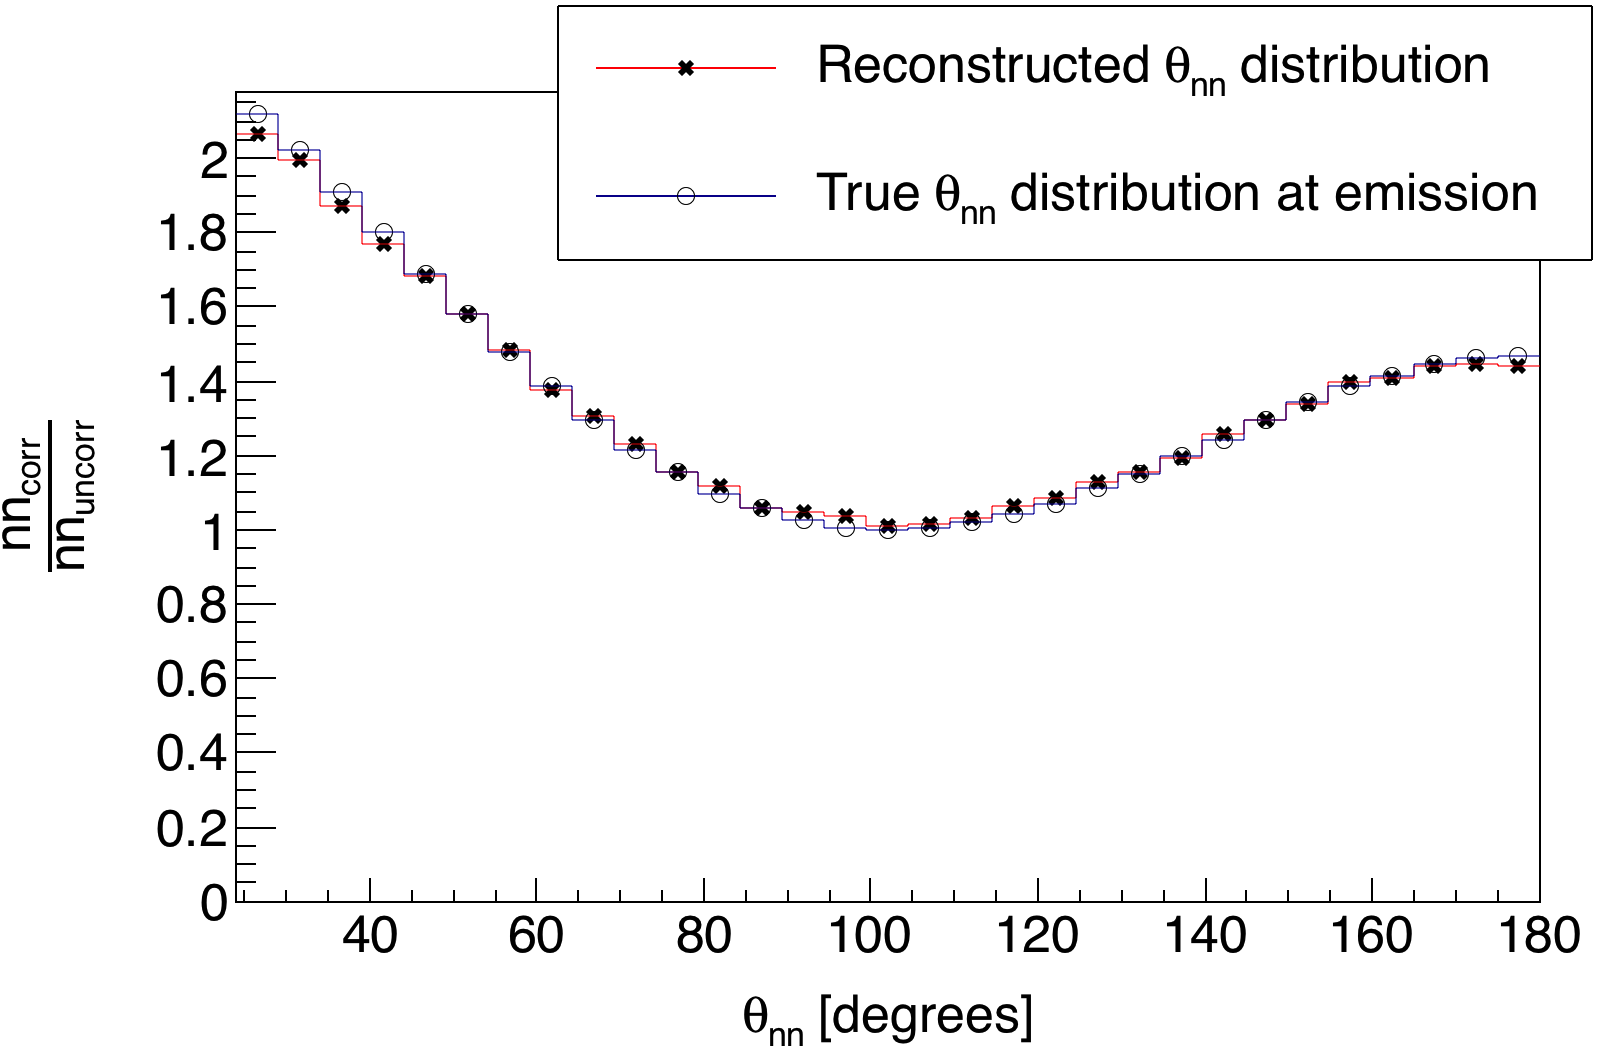
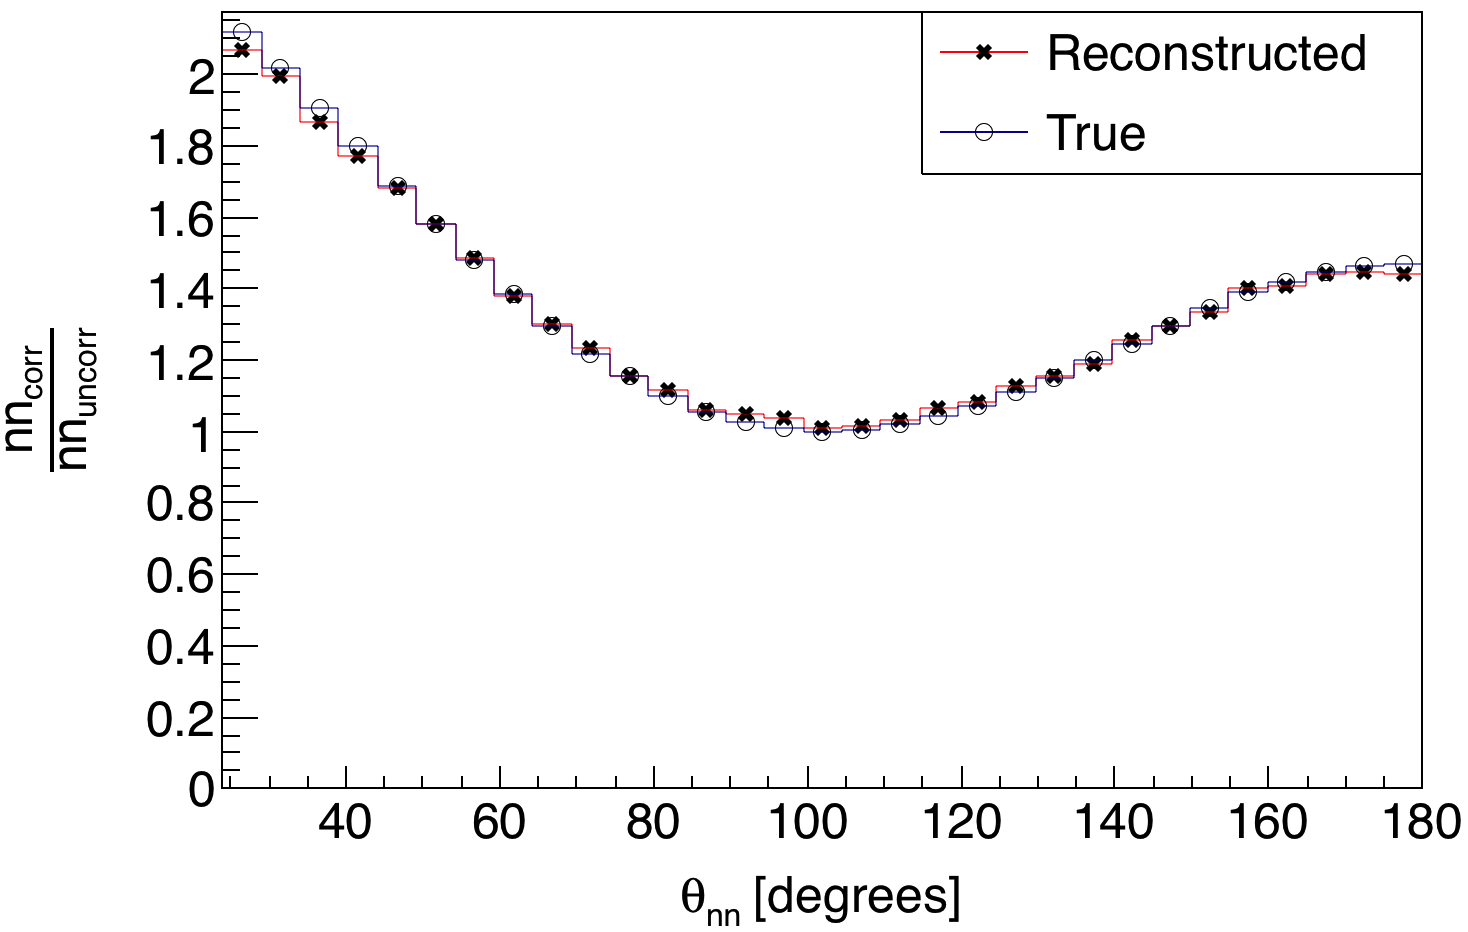
ok

diff --git a/Content/Errors/Errors.tex b/Content/Errors/Errors.tex
@@ -109,22 +109,22 @@ Angles greater than 125 degrees are not shown in Fig.~\ref{fig:CrosstalkVScoinci
 \section{Neutron Scattering within Target}
 \label{subsection:Elastic_scattering}
 A potential source of error in opening angle measurements is the scattering of neutrons within the fission target.
-This is a cause for concern, because when a neutron scatters from a heavy nucleons, such as $^{238}$U, is very likely to be deflected at a large angle, causing two-neutron opening angles that are not reflective of the opening angle immediately after fission.
-Furthermore, because the target used in this work has the shape of a thin strip, it is more likely that neutrons emitted along the wider axis (2~cm) of the strip undergo a scattering event than it is for those emitted along the thinest axis (0.05~cm).
+This is a cause for concern because when a neutron scatters from a heavy nucleons, such as $^{238}$U, it is very likely to be deflected at large angles, resulting in two-neutron opening angles that do not reflect fission kinematics.
+Furthermore, because the target used in this work has the shape of a thin strip, it is more likely that neutrons emitted along the wide axis (2~cm) of the strip undergo a scattering event than those emitted along the thinest axis (0.05~cm).
 As a result, detectors that are located collinear to the widest axis of the target will see relatively fewer neutrons due to increased scattering. 
 This bias is removed by slowly rotating the target about the vertical axis during data acquisition.
 Because the subject of this measurement is fundamentally a statistical process, useful interpretations of the data are average rates taken over many events.
-Thus, by rotating the target, cylindrical symmetry is preserved in the average, producing a result equivalent to that if a cylindrical target were used.
+Thus, by rotating the target, cylindrical symmetry is preserved in the average to produce a result equivalent to that if a cylindrical target were used.
 
 The target's dimensions are small enough that the rate of photon absorption, and thus photo-neutron production, is virtually uniform throughout the entire target volume.
-MCNP-PoLiMi was used to simulate fission neutrons from the SF of $^{252}$Cf at locations distributed uniformly throughout the target volume.
-The probability that at least one neutron out of a pair of two scatters before exiting the target was calculated from the simulation.
-For the target used in this work, the result indicated that 6\% of two-neutron opening angles were perturbed due to scattering.
+MCNP-PoLiMi was used to simulate fission neutrons from the SF of $^{252}$Cf at locations distributed uniformly throughout the target's volume.
+The SF of $^{252}$Cf is used instead of the photofission of $^{238}$U because of the current lack of photofission models, however, the underlying fission kinematics are broadly speaking the same, and thus the neutron-neutron correlations of the SF of $^{252}$Cf and the photofission of $^{238}$U are similar.
+The probability that at least one neutron out of a pair of two scatters before exiting the target was calculated from the simulation, indicating that 6\% of measured two-neutron opening angles were perturbed due to scattering.
 
-The rate of elastic scattering is also affected by the shape of the target.
+The rate of elastic scattering is affected by the size and shape of the target.
 A thin strip is the ideal target shape regarding the rate of neutron elastic scattering per unit of total target volume.
 See Fig~\ref{fig:ElasticScatteringPlot} for the simulated elastic scattering rates for both thin strip and cylindrical shaped targets.
-The simulation indicated that the rate of elastic scattering is about a factor of two times greater in cylindrical targets than in thin strip targets of the same volume and width-to-height ratio as the target used in this experiment.
+The simulation indicated that the rate of elastic scattering is about a factor of two times greater in cylindrical targets than in thin strip targets of the same volume with a width-to-thickness ratio of 40.
 
 \begin{figure}
     \centering
@@ -138,21 +138,26 @@ The simulation indicated that the rate of elastic scattering is about a factor o
     \label{fig:ElasticScatteringPlot}
 \end{figure}
 
-Section~\ref{sec:anomaly} discusses the observation of an unexpected drop in correlation around 180$^{\circ}$ in our photofission of $^{238}$U measurement, as seen in Figs.~\ref{fig:DU(0)} through~\ref{fig:DU(1)}.
-This motivated a simulation which examined whether this decrease in the correlation around 180$^{\circ}$ opening angles reflects the underlying physics of the fission process, or, arises from an artifact of the data analysis procedure.
+Section~\ref{sec:anomaly} discusses the observation of an unexpected drop in correlation around 180$^{\circ}$ in our photofission of $^{238}$U measurement, as seen in Figs.~\ref{fig:DU(0)}-\ref{fig:DU(1)}.
+This motivated a second simulation regarding elastic scattering which examined whether this decrease in the correlation around 180$^{\circ}$ opening angles reflects the underlying physics of the fission process.
 In particular, note that throughout these measurements, the target was continuously rotated once per 8 seconds.
 This means that for the determination of the uncorrelated opening angle distribution, the trajectories of the two neutrons were taken from two different pulses in which the target was at a different orientation for each of them.
 Additionally, each of the neutrons likely originated from different regions of the target volume.
 On the other hand, for the same-pulse, correlated neutron measurement, the target was in the same orientation and the two neutrons were generated at the same position in the target.
+For these reasons, the rates of neutron scattering within the target are not necessarily equal for the same-pulse and different-pulse cases.
 As such, we investigated whether these differences could cause this apparent decrease in the opening angle distribution.
 
 Using the correlated $^{252}$Cf SF source built-in to MCNP-PoLiMi, the opening angle distribution of neutrons at the moment of emission can be compared to that of emitted neutrons after they have escaped the target.
 Analysis of the simulation employs the same technique outlined in section~\ref{subsec:SPDPCancelation}, in which a correlated neutron distribution is divided by an uncorrelated neutron distribution.
-In the case of the simulation, the correlated opening angle distribution is formed by pairing neutrons emitted during the same fission, and the uncorrected distribution by the pairing of neutrons emitted during different fissions.
+The correlated opening angle distribution is formed by pairing neutrons emitted during the same fission, and the uncorrected distribution by the pairing of neutrons emitted during different fissions.
 The location of fission events were sampled uniformly throughout the targets volume.
-In order to account for the effect of the rotating target on the trajectories of neutrons from different-pulses, the coordinate system was rotated accordingly for different fissions.
-The conclusion was that a 0.05$\times$2$\times$4~cm$^3$ $^{238}$U target does not result in a significant departure from the true opening angle distribution due to neutron scattering.
-Fig~\ref{fig:ElasticScatteringEffect} compares the two-neutron opening angle distribution at the moment of emission to that of neutrons once they have escaped the target.
+In order to account for the effect of a rotating target on the trajectories of neutrons from different-pulses, the coordinate system was rotated about the vertical axis accordingly for each fission event.
+The conclusion was that the rotating 0.05$\times$2$\times$4~cm$^3$ U-238 target does not, due to neutron scattering, result in a significant departure from the true opening angle distribution.
+
+Fig~\ref{fig:ElasticScatteringEffect} compares the two-neutron opening angle distribution at the moment immediately after emission (denoted by \emph{true} in figure) to that of neutrons once they have escaped the target (denoted by \emph{reconstructed} in figure).
+The overall scattering rate of detected neutrons may be affected by the fact that the neutron detection system does not have 4$\pi$ coverage. 
+The potential for this to affect the measurement is captured in the simulated reconstructed $\theta_{nn}$ distribution by only counting neutrons which enter the physical volume at which a detector was located during the experiment.
+A neutron energy cut of 0.4 MeV is applied to all neutrons in order to resemble the measurement.
 \begin{figure}
     \centering
     \includegraphics[width = 0.95\textwidth]{Content/Errors/EffectOfElasticScattering.png}

diff --git a/Content/Methods/ExpMethods.tex b/Content/Methods/ExpMethods.tex
@@ -7,7 +7,11 @@ Data from all PMTs is read out for each accelerator pulse, and if multiple signa
 Position and ToF are each determined using the timing of coincident signals from both PMTs of a detector.
 
 The sum of the times required for scintillation light to travel from the point of scintillation to both PMTs is equal to the time required for the light to travel the full length of the scintillator, and is a constant.
-This is supported by data, shown in Fig.~\ref{fig:ConstPMTAvg}, taken using a collimated $^{60}$Co source to generate photon events at several different locations along the length of the scintillator, all which have equal ToF.
+This is supported by data, shown in Fig.~\ref{fig:ConstPMTAvg}, that was produced from a series of tests in which a collimated $^{60}$Co source was placed at five different locations along a scintillator.
+One of the two coincident photons emitted by $^{60}$Co reaches the scintillator and the other is detected by an auxiliary detector which serves as the trigger. 
+These events have the same ToF regardless of the position of the $^{60}$Co source, as the distance photons must travel is unchanged. 
+The photons incident on the scintillator have a spot size of less than 1~cm due to collimation.
+
 In Fig.~\ref{fig:ConstPMTAvg}(a), it can be seen that the time required for the scintillation light to propagate through the scintillator effects the timing of each PMT alone, however, the average of the times of both PMTs is a constant, unaffected by the location at which the particle undergoes scintillation.
 Light takes 5~ns to travel the scintillator's full length, giving an effective index of refraction of 2.0 .
 For this reason, taking the average of signals from two PMTs is advantageous because it removes a roughly 5~ns timing error that would otherwise exist due to the time required for scintillation light to propagate through the scintillator.
@@ -60,7 +64,7 @@ Figure~\ref{fig:ErgUncertainty}(a) shows the relationship between neutron energy
 \subsection{Particle Position Reconstruction}
 The detectors are not capable of measuring the position of a detected particle along the axes parallel to the detectors' width (15.24~cm wide) and depth (3.81~cm deep), which contributes $\pm3^{\circ}$ to the total angular uncertainty.
 The position of a particle hit along the 76.2~cm length of the scintillator is calculated using the timing difference of signals from both of a detector's PMTs.
-Under the assumption that light travels at a constant velocity from some distance, $x$, relative to the center of a scintillator, the difference between the times of signals from the two PMTs, $\Delta t^{PMTs}$, is given by:
+Assuming that scintillation light travels, at a constant velocity, to both PMTs starting from a point that is $x$~cm from the center of a scintillator, then the difference between the times of signals from the two PMTs, $\Delta t^{PMTs}$, is given by:
 \begin{equation}
 \begin{split}
 \Delta t^{PMTs} & = t^{PMT_1}-t^{PMT_2} \\ 
@@ -77,10 +81,11 @@ where $t^{PMT_{top}}$ and $t^{PMT_{bot}}$ are the times of signals from the top 
 Using data taken from coincident photons from a collimated $^{60}$Co source placed at different position on a detector, a least squares linear fit between $x$ and $\Delta t^{PMTs}$ was performed.
 The resulting fit parameters are used to find the position of detected particles.
 
-The slope of the linear fit in Fig.~\ref{fig:PMTDifference}(b), along with Eq.~\ref{eq:position}, can be used to calculate the effective index of refraction, giving a value of 2.0 .
-The index of refraction measured here is said to be ``effective" because its measurement is sensitive to scintillation light's speed only along the axis parallel to the scintillator's longest dimension, and because scintillation light does not necessarily take a straight path to the PMTs, this speed is not equal to the intrinsic speed of light in the material.
-The actual index of refraction of PVT is known to be 1.58, or $\sim{20}\%$ less than the value measured here, indicating that there is some reflection of detected scintillation light from the boundaries of the scintillator.
-This effect contributes to the width of the peaks in Fig.~\ref{fig:PMTDifference}(a).
+The slope of the linear fit in Fig.~\ref{fig:PMTDifference}(b), along with Eq.~\ref{eq:position}, was used to calculate the effective index of refraction of the scintillation material to give a value of 2.0 .
+The index of refraction measured here is said to be ``effective" because its measurement is sensitive to scintillation light's average speed projected onto the axis parallel to the scintillator's longest dimension (in other words it's length), which is equal to the intrinsic speed of light in the material only when the light is traveling parallel to the scintillator's length.
+While the detection of scintillation light by both PMTs favors light paths which are parallel or nearly-parallel to the scintillator's length, there is some reflection of detected scintillation light from the boundaries of the scintillator.
+Thus, the actual index of refraction of PVT is 1.58, $\sim{20}\%$ less than the value measured here.
+This effect contributes to the measurement uncertainty in particle position reconstruction, which is illustrated by the widths of the peaks in Fig.~\ref{fig:PMTDifference}(a).
 
 \begin{figure}[]
     \centering
@@ -89,11 +94,11 @@ This effect contributes to the width of the peaks in Fig.~\ref{fig:PMTDifference
     \subfloat[]{\includegraphics[width = 0.6\textwidth]{Content/Methods/PMTDifference.png}}
 
     \caption{
-    A collimated $^{60}$Co source is used to produce photon events at five different positions along the scintillator with a spot size of less than 1~cm.
-    Aggregating the data produces the five peaks seen in (a).
-    The $\pm9$~cm width of each of these peaks is due to uncertainty in the measurement of particle position.
-    As seen in (b), the mean PMT timing difference of events at each position varies linearly with respect to the distance of the $^{60}$Co from the center of the detector. 
-    The result of a linear least squares fit to this data is used to calculate the position of detected particles along the scintillator.
+    A collimated $^{60}$Co source is used to produce photon events at five different positions along the scintillator.
+    Aggregating the data with the $^{60}$Co source at all five positions produces the five peaks seen in (a).
+    The $\pm9$~cm width of each of these peaks is due to the measurement uncertainty in particle position.
+    As seen in (b), the mean PMT timing difference of events at each position varies linearly with respect to the distance of the $^{60}$Co source from the center of the detector. 
+    The result of a linear least squares fit to this data is used to calculate the position of detected particles along the length of each scintillator.
     }
     \label{fig:PMTDifference}
 \end{figure}
